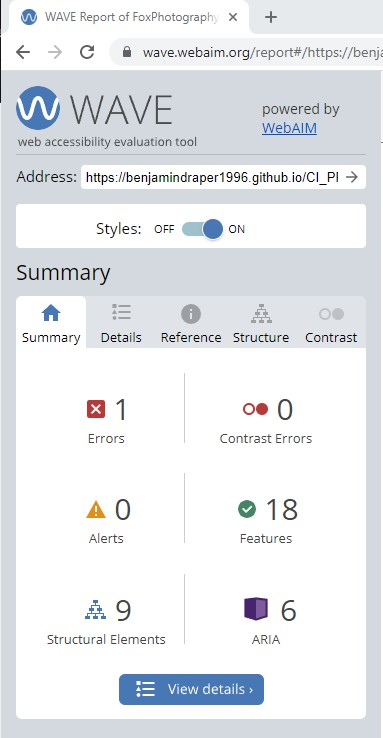
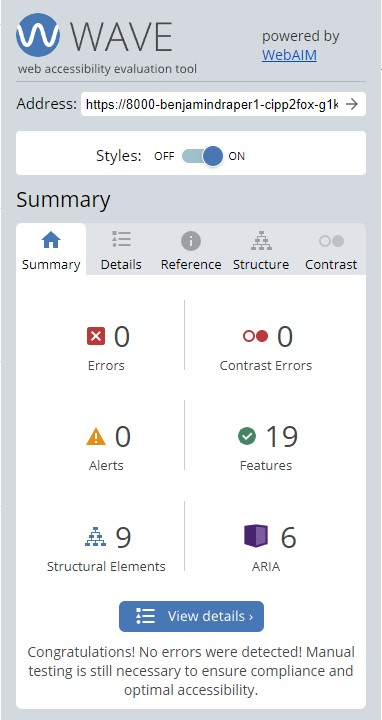
Fix Accessibility Error

diff --git a/about.html b/about.html
@@ -21,9 +21,9 @@
             <img id="hero" src="assets/images/hero-images/about-hero.webp" alt="Girl looking into the camera standing in front of a glass wall.">
             <ul class="menu">
                 <li>
-                    <label class="switch">
+                    <label for="theme" class="switch">\
                         <span>
-                            <input type="checkbox" />
+                            <input id="theme" type="checkbox" name="theme">
                             <span class="slider"></span>
                         </span>
                     </label>

diff --git a/game.html b/game.html
@@ -21,9 +21,9 @@
             <img id="hero" src="assets/images/hero-images/game-hero.webp" alt="Bright green picture of a girl looking at lights.">
             <ul class="menu">
                 <li>
-                    <label class="switch">
+                    <label for="theme" class="switch">\
                         <span>
-                            <input type="checkbox" />
+                            <input id="theme" type="checkbox" name="theme">
                             <span class="slider"></span>
                         </span>
                     </label>

diff --git a/contact.html b/contact.html
@@ -22,9 +22,9 @@
             <img id="hero" src="assets/images/hero-images/contact-hero.webp" alt="Close up of a girl wearing makeup.">
             <ul class="menu">
                 <li>
-                    <label class="switch">
+                    <label for="theme" class="switch">\
                         <span>
-                            <input type="checkbox" />
+                            <input id="theme" type="checkbox" name="theme">
                             <span class="slider"></span>
                         </span>
                     </label>

diff --git a/404.html b/404.html
@@ -21,9 +21,9 @@
             <img id="hero" src="assets/images/404.webp" alt="404 Hero Image.">
             <ul class="menu">
                 <li>
-                    <label class="switch">
+                    <label for="theme" class="switch">\
                         <span>
-                            <input type="checkbox" />
+                            <input id="theme" type="checkbox" name="theme">
                             <span class="slider"></span>
                         </span>
                     </label>

diff --git a/index.html b/index.html
@@ -21,9 +21,9 @@
     <img id="hero" src="assets/images/hero-images/index-hero.webp" alt="Black and White Photo of a girl against a wall.">
     <ul class="menu">
         <li>
-            <label class="switch">
+            <label for="theme" class="switch">\
                 <span>
-                    <input type="checkbox" />
+                    <input id="theme" type="checkbox" name="theme">
                     <span class="slider"></span>
                 </span>
             </label>

diff --git a/README.md b/README.md
@@ -342,7 +342,7 @@ The Game JS file passed with no errors but has a number of warnings, given more 
 </details>
 
 ### Accessibility
-I used WAVE WebAIM web accessibility evaluation tool to ensure the website met high accessibility standards. All pages passed with one error each relating to the label in the menu, this was intentional to make the theme dark mode switch work.
+I used WAVE WebAIM web accessibility evaluation tool to ensure the website met high accessibility standards. All pages passed with no errors.
 <details><summary>Home Page</summary>
 <img src="documentation/validation/accessibility-index.jpg">
 </details>
